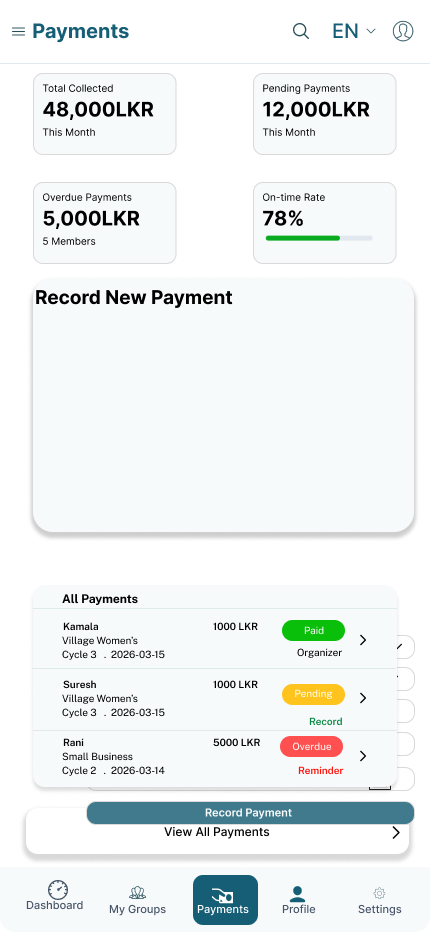
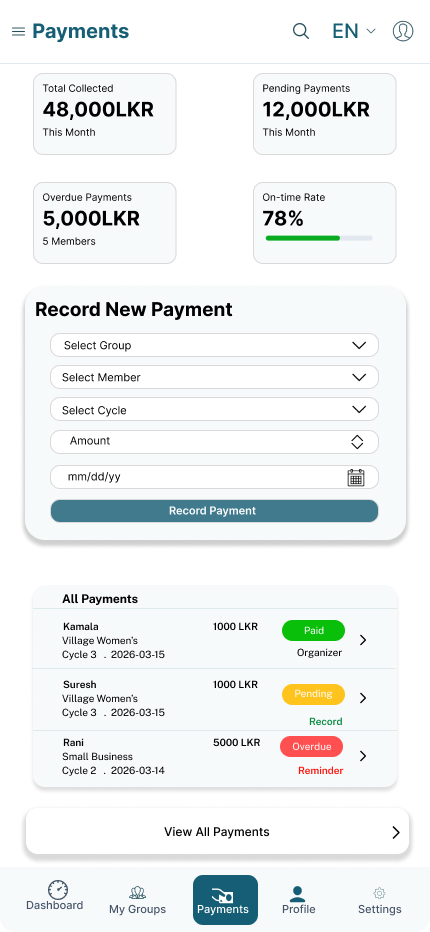
Updated portfolio code

Changed region(s): [[0.0302, 0.3112, 0.9674, 0.5912], [0.1814, 0.8401, 0.9674, 0.9024]]

diff --git a/src/Pages/Home.js b/src/Pages/Home.js
@@ -1,34 +1,139 @@
 import React from 'react';
 import './Home.css';
 
-function Home({setActivePage}) {
+function Home({ setActivePage }) {
+  const handleNavigation = (pageName) => {
+    if (setActivePage) {
+      setActivePage(pageName);
+    }
+  };
+
   return (
-    <section className="home-hero-section">
-      <div className="hero-background-shapes">
-        <div className="shape bubble-one"></div>
-        <div className="shape bubble-two"></div>
-      </div>
+    <div className="home-container" style={{ padding: '40px 20px', maxWidth: '1100px', margin: '0 auto' }}>
+      
+      {/* Hero Section */}
+      <section className="hero-section" style={{ 
+        display: 'flex', 
+        alignItems: 'center', 
+        justifyContent: 'space-between', 
+        gap: '40px', 
+        flexWrap: 'wrap',
+        padding: '40px 0'
+      }}>
+        <div className="hero-text-content" style={{ flex: '1', minWidth: '300px' }}>
+          <span style={{ 
+            background: '#e0e7ff', 
+            color: '#4338ca', 
+            padding: '6px 14px', 
+            borderRadius: '20px', 
+            fontSize: '14px', 
+            fontWeight: '600' 
+          }}>
+            Aspiring UI/UX Designer
+          </span>
+          
+          <h1 style={{ fontSize: '38px', color: '#1e293b', margin: '15px 0 10px 0', lineHeight: '1.2' }}>
+            Hi, I&apos;m <span style={{ color: '#2563eb' }}>Vichakshi Shashiprabha</span>
+          </h1>
+          
+          <p style={{ fontSize: '18px', color: '#64748b', fontWeight: '500', marginBottom: '20px' }}>
+            IT Diploma Student at ITUM | UI/UX Enthusiast
+          </p>
+          
+          <p style={{ fontSize: '15px', color: '#475569', lineHeight: '1.6', marginBottom: '25px' }}>
+            I specialize in crafting intuitive mobile interfaces, wireframing, and user-centered digital prototypes. Passionate about applying Human-Computer Interaction (HCI) concepts to solve real-world user interface challenges.
+          </p>
 
-      <div className="hero-text-container">
-        <span className="hero-welcome-tag">Hello, Welcome to My Portfolio</span>
-        <h1 className="hero-main-title">
-          Crafting Digital Interfaces as an <span className="highlight-text">IT Student</span>
-        </h1>
+          {/* Working Navigation Buttons */}
+          <div style={{ display: 'flex', gap: '15px', flexWrap: 'wrap' }}>
+            <button 
+              onClick={() => handleNavigation('projects')} 
+              style={{ 
+                background: '#2563eb', 
+                color: '#ffffff', 
+                padding: '12px 24px', 
+                borderRadius: '8px', 
+                border: 'none',
+                fontSize: '15px',
+                fontWeight: '600',
+                cursor: 'pointer',
+                transition: '0.3s'
+              }}
+            >
+              View My Work
+            </button>
 
-        <p className="hero-subtitle">
-          I am currently a 2nd-year IT Diploma student at ITUM, University of Moratuwa. 
-          While focusing on core technology courses, my true passion lies in bridging software system architectures 
-          with clean, human-centered UI/UX layouts.
-        </p>
-
-        <div className="hero-action-buttons">
-            <button className="primary-cta-btn" onClick={() => setActivePage('projects')}>
-              Explore My Designs
-              </button>
-
+            <button 
+              onClick={() => handleNavigation('contact')} 
+              style={{ 
+                background: 'transparent',
+                border: '2px solid #2563eb', 
+                color: '#2563eb', 
+                padding: '10px 22px', 
+                borderRadius: '8px', 
+                fontSize: '15px',
+                fontWeight: '600',
+                cursor: 'pointer',
+                transition: '0.3s'
+              }}
+            >
+              Get In Touch
+            </button>
+          </div>
         </div>
-      </div>
-    </section>
+
+        {/* Profile Image Section */}
+        <div className="hero-image-container" style={{ flex: '1', display: 'flex', justifyContent: 'center', minWidth: '250px' }}>
+          <img 
+            src="/images/MyProfile.jpg" 
+            alt="Vichakshi Shashiprabha" 
+            style={{ 
+              width: '280px', 
+              height: '280px', 
+              borderRadius: '50%', 
+              objectFit: 'cover', 
+              boxShadow: '0 8px 20px rgba(0,0,0,0.15)', 
+              border: '4px solid #fff' 
+            }} 
+          />
+        </div>
+      </section>
+
+      {/* Core Competencies Section */}
+      <section className="highlights-section" style={{ 
+        marginTop: '40px', 
+        padding: '30px', 
+        background: 'rgba(255, 255, 255, 0.8)', 
+        borderRadius: '16px',
+        boxShadow: '0 4px 15px rgba(0,0,0,0.05)'
+      }}>
+        <h3 style={{ textAlign: 'center', fontSize: '22px', color: '#1e293b', marginBottom: '25px' }}>
+          Core Competencies
+        </h3>
+        
+        <div style={{ 
+          display: 'grid', 
+          gridTemplateColumns: 'repeat(auto-fit, minmax(220px, 1fr))', 
+          gap: '20px' 
+        }}>
+          <div style={{ padding: '15px', background: '#f8fafc', borderRadius: '10px', textAlign: 'center' }}>
+            <h4 style={{ color: '#2563eb', margin: '0 0 8px 0' }}>🎨 UI/UX Design</h4>
+            <p style={{ fontSize: '13px', color: '#64748b', margin: 0 }}>Prototyping, Mobile Layouts & Figma Wireframing</p>
+          </div>
+          
+          <div style={{ padding: '15px', background: '#f8fafc', borderRadius: '10px', textAlign: 'center' }}>
+            <h4 style={{ color: '#2563eb', margin: '0 0 8px 0' }}>🎓 IT Education</h4>
+            <p style={{ fontSize: '13px', color: '#64748b', margin: 0 }}>NDT / IT Diploma - University of Moratuwa (ITUM)</p>
+          </div>
+          
+          <div style={{ padding: '15px', background: '#f8fafc', borderRadius: '10px', textAlign: 'center' }}>
+            <h4 style={{ color: '#2563eb', margin: '0 0 8px 0' }}>🥋 Soft Skills</h4>
+            <p style={{ fontSize: '13px', color: '#64748b', margin: 0 }}>Leadership & Discipline from Karate Coaching</p>
+          </div>
+        </div>
+      </section>
+
+    </div>
   );
 }
 

diff --git a/src/Pages/Contact.js b/src/Pages/Contact.js
@@ -5,6 +5,11 @@ function Contact() {
   return (
     <section className="contact-display-container">
       <div className="contact-glass-card">
+        {/* Status Badge එක */}
+        <div style={{ display: 'inline-block', background: 'rgba(37, 99, 235, 0.1)', color: '#2563eb', padding: '6px 16px', borderRadius: '20px', fontSize: '13px', fontWeight: '600', marginBottom: '15px' }}>
+          🟢 Available for UI/UX Internships
+        </div>
+
         <h2 className="contact-main-heading">Let's Connect</h2>
         <p className="contact-sub-paragraph">
           I am currently seeking UI/UX design internship opportunities to apply the layout concepts 
@@ -13,19 +18,19 @@ function Contact() {
         
         <div className="contact-details-box">
           <div className="contact-detail-row">
-            <span className="detail-label">Email:</span>
+            <span className="detail-label">📧 Email:</span>
             <a 
               href="https://mail.google.com/mail/?view=cm&fs=1&to=vichakshi245@gmail.com" 
               target="_blank" 
               rel="noreferrer" 
               className="detail-value contact-link"
             >
-             vichakshi245@gmail.com
+              vichakshi245@gmail.com
             </a>
           </div>
 
           <div className="contact-detail-row">
-            <span className="detail-label">LinkedIn:</span>
+            <span className="detail-label">💼 LinkedIn:</span>
             <a 
               href="https://www.linkedin.com/in/vichakshi-shashiprabha-59a22329b/" 
               target="_blank" 
@@ -37,19 +42,19 @@ function Contact() {
           </div>
           
           <div className="contact-detail-row">
-            <span className="detail-label">GitHub:</span>
+            <span className="detail-label">💻 GitHub:</span>
             <a 
               href="https://github.com/Vichakshi-Shashiprabha" 
               target="_blank" 
               rel="noreferrer" 
               className="detail-value contact-link"
             >
-           Vichakshi-Shashiprabha
+              Vichakshi-Shashiprabha
             </a>
           </div>
           
           <div className="contact-detail-row">
-            <span className="detail-label">Current Institute:</span>
+            <span className="detail-label">🏛 Institute:</span>
             <a 
               href="https://itum.mrt.ac.lk" 
               target="_blank" 

diff --git a/src/Pages/About.js b/src/Pages/About.js
@@ -41,7 +41,7 @@ function About() {
       title: "5. User Account Control",
       category: "Group Project",
       tech: "Mobile Ergonomics",
-      description: "Polished intuitive profile preference nodes focusing on simple interactive system state discovery.",
+      description: "Polished intuitive profile preference nodes focusing on simple interactive system state discovery",
       image: "/images/Profile.jpg"
     }
   ];
@@ -64,6 +64,45 @@ function About() {
             projectImage={item.image}
           />
         ))}
+      </div>
+
+      {/* Karate Coaching Section */}
+      <div className="extracurricular-section" style={{ 
+        marginTop: '70px', 
+        padding: '35px', 
+        background: 'rgba(255, 255, 255, 0.85)', 
+        borderRadius: '16px', 
+        display: 'flex', 
+        alignItems: 'center', 
+        gap: '30px', 
+        flexWrap: 'wrap',
+        boxShadow: '0 8px 25px rgba(0,0,0,0.06)'
+      }}>
+        <div style={{ flex: '0 0 280px', margin: '0 auto', textAlign: 'center' }}>
+          <img 
+            src="/images/karate.png" 
+            alt="Karate Coaching" 
+            style={{ 
+              width: '100%', 
+              maxWidth: '260px', 
+              height: 'auto',
+              borderRadius: '12px', 
+              objectFit: 'cover', 
+              boxShadow: '0 6px 15px rgba(0,0,0,0.1)'
+            }} 
+          />
+        </div>
+        <div style={{ flex: '1', minWidth: '280px' }}>
+          <span style={{ color: '#2563eb', fontWeight: '700', fontSize: '13px', letterSpacing: '1px', textTransform: 'uppercase' }}>
+            Leadership & Discipline
+          </span>
+          <h3 style={{ fontSize: '22px', margin: '8px 0', color: '#1e293b' }}>
+            Karate Coach & Assistant Instructor
+          </h3>
+          <p style={{ color: '#475569', lineHeight: '1.6', fontSize: '14px', margin: 0 }}>
+            Alongside my IT studies at ITUM, I serve as a licensed Karate Coach at Ilma International Girls&apos; School and as an Assistant Coach at the Sri Lanka Genseiryu Karate Do Federation (certified by NISS). This role has honed my leadership, time-management, and high-level discipline, translating into structured focus for UI/UX engineering.
+          </p>
+        </div>
       </div>
     </section>
   );
